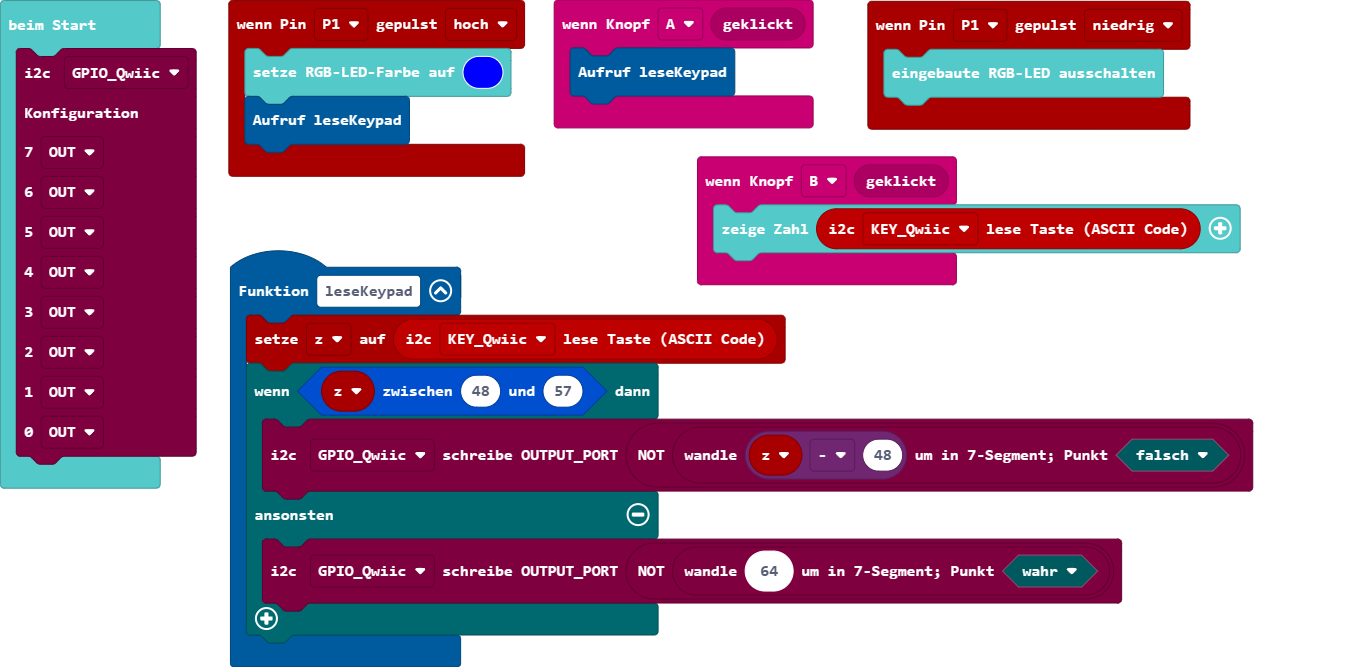
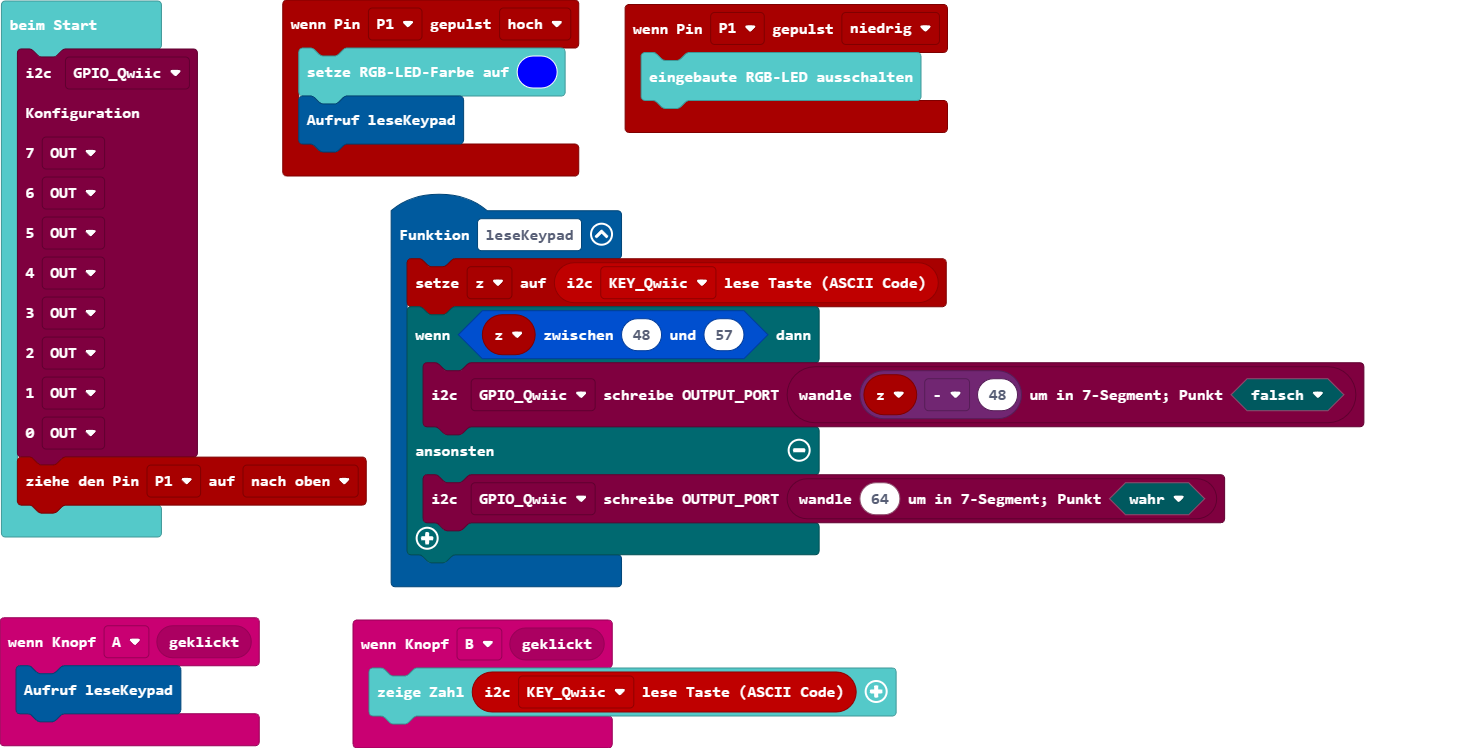
Aktualisiere main.blocks, main.ts

diff --git a/main.ts b/main.ts
@@ -4,9 +4,9 @@ input.onButtonEvent(Button.A, input.buttonEventClick(), function () {
 function leseKeypad () {
     z = qwiickeypad.getButton(qwiickeypad.eADDR.KEY_Qwiic)
     if (bit.between(z, 48, 57)) {
-        qwiicgpio.writeOUTPUT_PORT(qwiicgpio.eADDR.GPIO_Qwiic, qwiicgpio.not(qwiicgpio.siebenSegment(z - 48, false)))
+        qwiicgpio.writeOUTPUT_PORT(qwiicgpio.eADDR.GPIO_Qwiic, qwiicgpio.siebenSegment(z - 48, false))
     } else {
-        qwiicgpio.writeOUTPUT_PORT(qwiicgpio.eADDR.GPIO_Qwiic, qwiicgpio.not(qwiicgpio.siebenSegment(64, true)))
+        qwiicgpio.writeOUTPUT_PORT(qwiicgpio.eADDR.GPIO_Qwiic, qwiicgpio.siebenSegment(64, true))
     }
 }
 pins.onPulsed(DigitalPin.P1, PulseValue.Low, function () {
@@ -31,3 +31,4 @@ qwiicgpio.eIO.OUT,
 qwiicgpio.eIO.OUT,
 qwiicgpio.eIO.OUT
 )
+pins.setPull(DigitalPin.P1, PinPullMode.PullUp)
